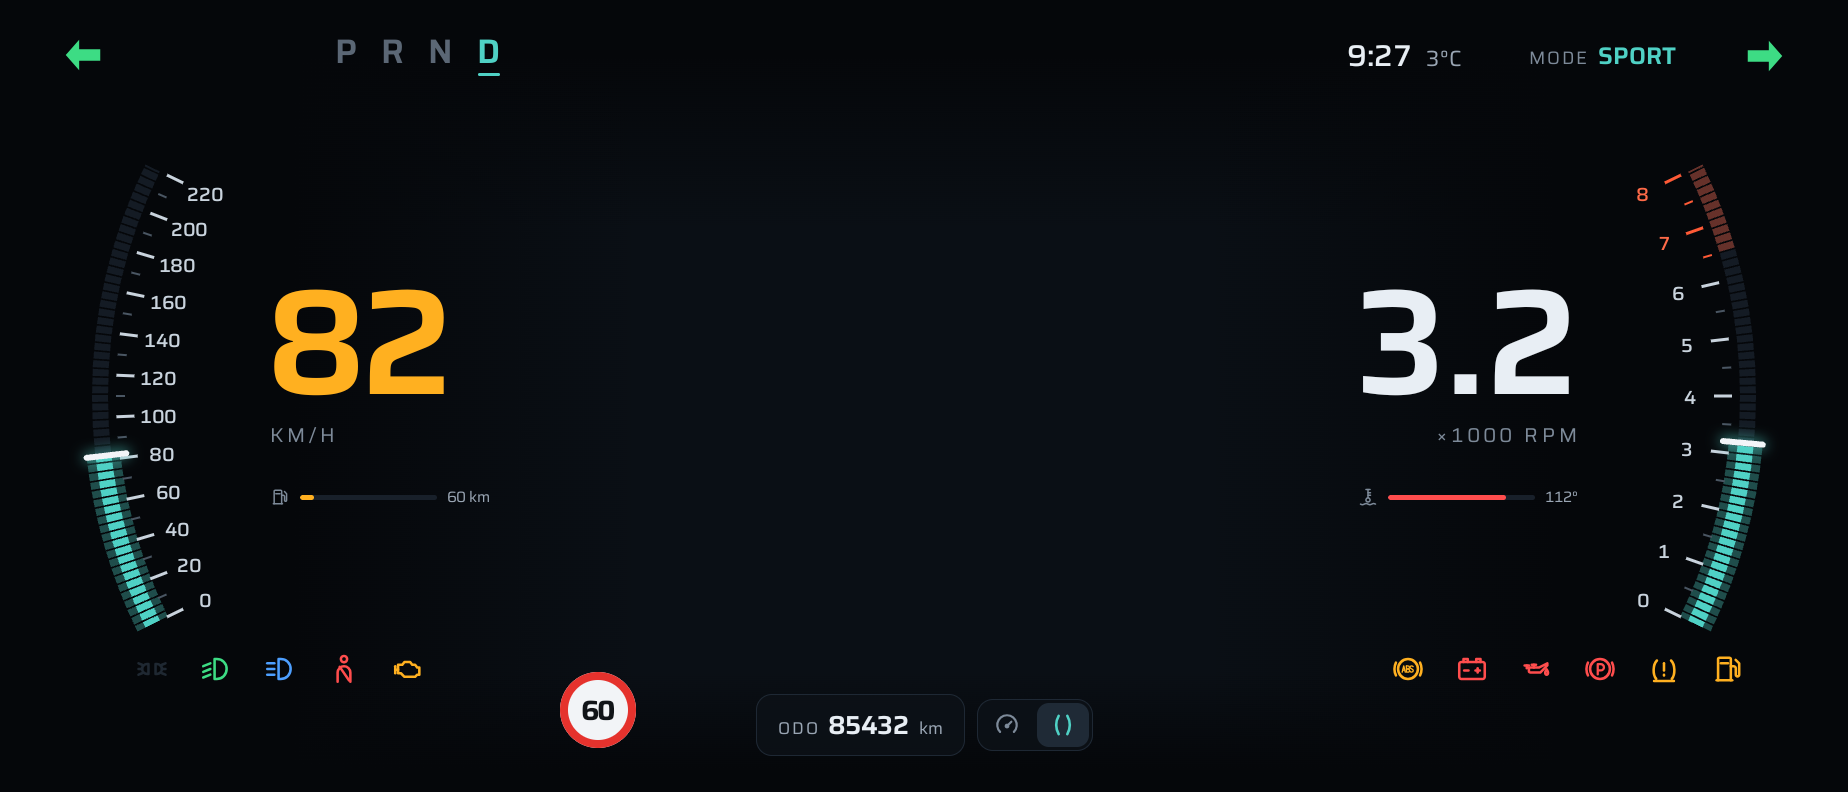
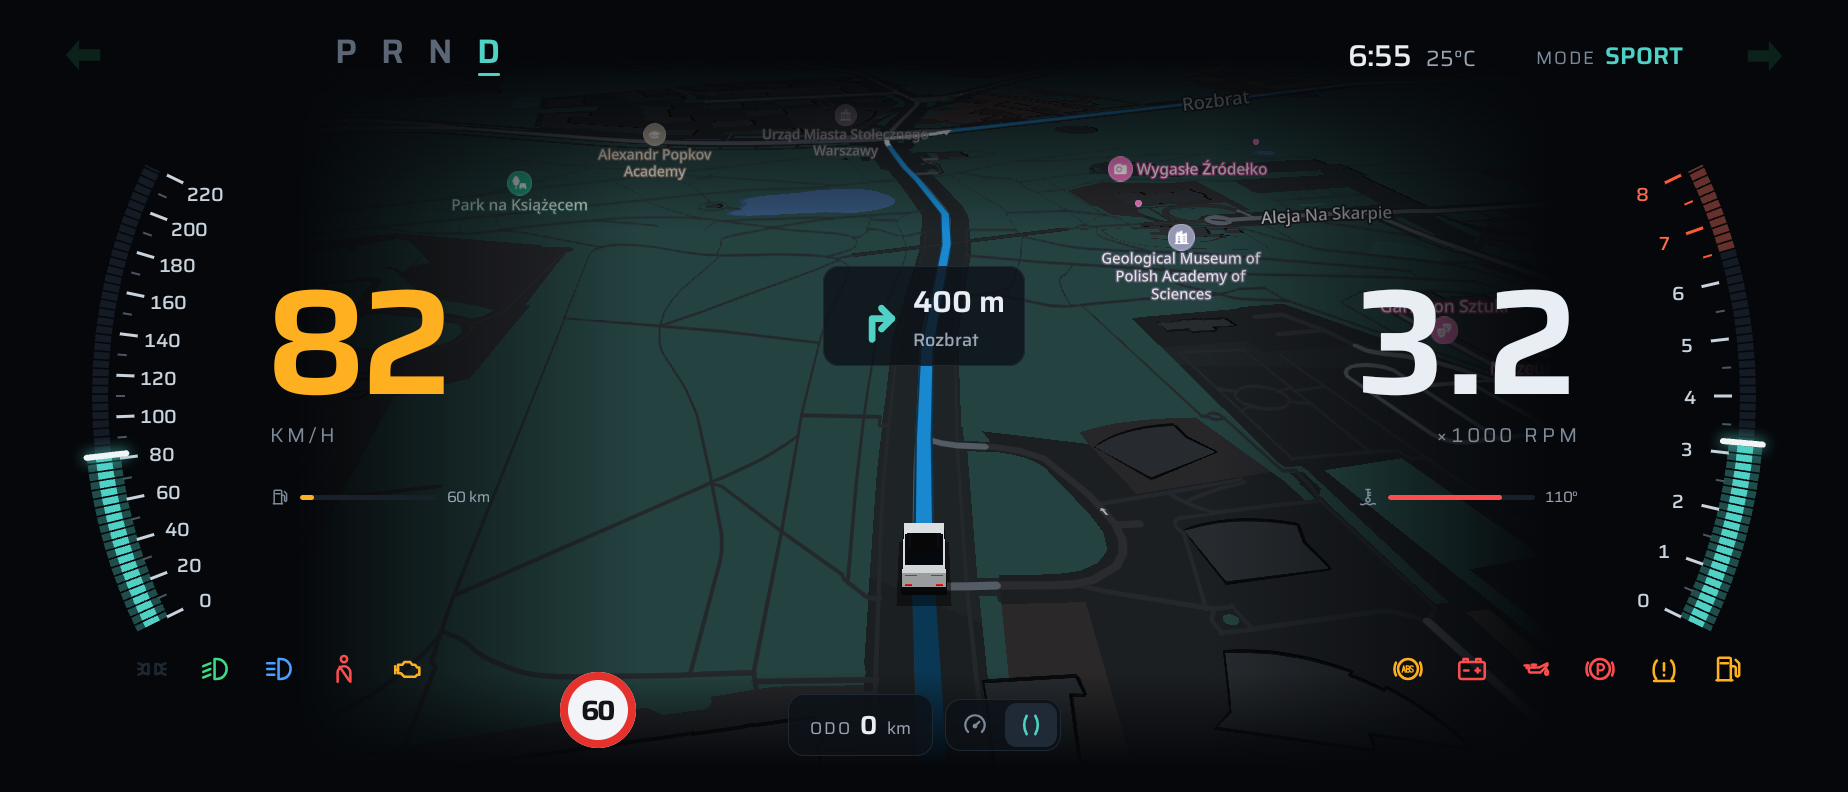
Update UI, add map

diff --git a/src/com/autobox/cluster/ui/map/ClusterMapConnection.kt b/src/com/autobox/cluster/ui/map/ClusterMapConnection.kt
@@ -1,0 +1,195 @@
+package com.autobox.cluster.ui.map
+
+import android.app.ActivityManager
+import android.content.BroadcastReceiver
+import android.content.ComponentName
+import android.content.Context
+import android.content.Intent
+import android.content.IntentFilter
+import android.content.ServiceConnection
+import android.graphics.Rect
+import android.os.Handler
+import android.os.IBinder
+import android.os.Looper
+import android.os.RemoteException
+import android.os.UserHandle
+import android.util.DisplayMetrics
+import android.util.Log
+import android.view.SurfaceHolder
+import androidx.compose.runtime.getValue
+import androidx.compose.runtime.mutableStateOf
+import androidx.compose.runtime.setValue
+import com.autobox.navigation.cluster.IClusterMap
+import com.autobox.navigation.cluster.IClusterMapListener
+
+private const val TAG = "ClusterMapConnection"
+private const val NAVIGATION_PACKAGE = "com.autobox.navigation"
+private const val ACTION_CLUSTER_MAP = "com.autobox.navigation.action.CLUSTER_MAP"
+private const val BIND_RETRY_MS = 2000L
+private const val ATTACH_RETRY_MS = 5000L
+
+/**
+ * Hands the map surface to Navigation, which draws the cluster map into it
+ * (com.autobox.navigation, IClusterMap).
+ *
+ * ClusterHomeService starts Cluster as the system user, while the driver's Navigation, with
+ * the route and the car position, runs as the current foreground user. The binding therefore
+ * goes to the current user and follows it on a user switch. Right after boot that user is
+ * still locked and Navigation (not direct boot aware) cannot be found, so binding is retried
+ * until it succeeds.
+ */
+internal class ClusterMapConnection(private val context: Context) : SurfaceHolder.Callback {
+
+    /**
+     * True once Navigation reports the map on the surface; until then [MapView] shows a
+     * placeholder. Stays false if Navigation fails to draw, so the cluster never shows a dead
+     * black surface.
+     */
+    var isMapShown by mutableStateOf(false)
+        private set
+
+    /** Density the map is drawn at, so 1 dp on the map is one design unit of the cluster. */
+    var densityDpi = DisplayMetrics.DENSITY_DEFAULT
+
+    /** Surface pixels at each edge covered by the gauges and bars. */
+    var insets = Rect()
+
+    private var connection: ServiceConnection? = null
+    private var service: IClusterMap? = null
+    private var holder: SurfaceHolder? = null
+    private var width = 0
+    private var height = 0
+
+    // The listener of the attach in flight. Reports for an older surface compare unequal and
+    // are dropped.
+    private var attachListener: IClusterMapListener? = null
+
+    private val handler = Handler(Looper.getMainLooper())
+    private val retryBind = Runnable { bind() }
+
+    private val userSwitchReceiver = object : BroadcastReceiver() {
+        override fun onReceive(context: Context, intent: Intent) {
+            Log.i(TAG, "User switched, binding to the new user's Navigation")
+            rebind()
+        }
+    }
+
+    fun start() {
+        context.registerReceiver(
+            userSwitchReceiver,
+            IntentFilter(Intent.ACTION_USER_SWITCHED),
+            Context.RECEIVER_NOT_EXPORTED,
+        )
+        bind()
+    }
+
+    fun stop() {
+        context.unregisterReceiver(userSwitchReceiver)
+        unbind()
+    }
+
+    override fun surfaceCreated(holder: SurfaceHolder) {
+        this.holder = holder
+    }
+
+    override fun surfaceChanged(holder: SurfaceHolder, format: Int, width: Int, height: Int) {
+        this.holder = holder
+        this.width = width
+        this.height = height
+        attach()
+    }
+
+    override fun surfaceDestroyed(holder: SurfaceHolder) {
+        detach()
+        this.holder = null
+        width = 0
+        height = 0
+    }
+
+    private fun bind() {
+        val newConnection = object : ServiceConnection {
+            override fun onServiceConnected(name: ComponentName, binder: IBinder) {
+                service = IClusterMap.Stub.asInterface(binder)
+                attach()
+            }
+
+            // Navigation died; BIND_AUTO_CREATE restarts it and connects again.
+            override fun onServiceDisconnected(name: ComponentName) {
+                service = null
+                attachListener = null
+                isMapShown = false
+            }
+
+            // Navigation was updated or removed: this binding will never come back.
+            override fun onBindingDied(name: ComponentName) {
+                rebind()
+            }
+        }
+        val intent = Intent(ACTION_CLUSTER_MAP).setPackage(NAVIGATION_PACKAGE)
+        val user = UserHandle.of(ActivityManager.getCurrentUser())
+        if (context.bindServiceAsUser(
+                intent,
+                newConnection,
+                Context.BIND_AUTO_CREATE or Context.BIND_IMPORTANT,
+                user,
+            )
+        ) {
+            connection = newConnection
+        } else {
+            // A failed bind must still be released; older releases throw instead
+            runCatching { context.unbindService(newConnection) }
+            Log.i(TAG, "Navigation not available for $user yet, retrying")
+            handler.postDelayed(retryBind, BIND_RETRY_MS)
+        }
+    }
+
+    private fun unbind() {
+        handler.removeCallbacks(retryBind)
+        detach()
+        connection?.let { context.unbindService(it) }
+        connection = null
+        service = null
+    }
+
+    private fun rebind() {
+        unbind()
+        bind()
+    }
+
+    private fun attach() {
+        val map = service ?: return
+        val surface = holder?.surface ?: return
+        if (width == 0 || height == 0) return
+        val listener = newAttachListener()
+        attachListener = listener
+        isMapShown = false
+        try {
+            map.attachSurface(surface, width, height, densityDpi, insets, listener)
+        } catch (e: RemoteException) {
+            attachListener = null
+            Log.w(TAG, "Failed to attach the map surface", e)
+        }
+    }
+
+    private fun detach() {
+        if (attachListener == null) return
+        attachListener = null
+        isMapShown = false
+        try {
+            service?.detachSurface()
+        } catch (e: RemoteException) {
+            Log.w(TAG, "Failed to detach the map surface", e)
+        }
+    }
+
+    private fun newAttachListener(): IClusterMapListener = object : IClusterMapListener.Stub() {
+        override fun onMapShown() {
+            handler.post { if (attachListener === this) isMapShown = true }
+        }
+
+        override fun onMapFailed(reason: String) {
+            Log.w(TAG, "Navigation could not show the cluster map, retrying: $reason")
+            handler.postDelayed({ if (attachListener === this) attach() }, ATTACH_RETRY_MS)
+        }
+    }
+}

diff --git a/src/com/autobox/cluster/ui/map/MapView.kt b/src/com/autobox/cluster/ui/map/MapView.kt
@@ -1,27 +1,70 @@
 package com.autobox.cluster.ui.map
 
+import android.graphics.Rect
+import android.util.DisplayMetrics
+import android.view.SurfaceView
 import androidx.compose.foundation.background
 import androidx.compose.foundation.layout.Box
 import androidx.compose.foundation.layout.BoxScope
 import androidx.compose.foundation.layout.fillMaxHeight
+import androidx.compose.foundation.layout.fillMaxSize
 import androidx.compose.foundation.layout.fillMaxWidth
 import androidx.compose.foundation.layout.height
 import androidx.compose.foundation.layout.width
 import androidx.compose.runtime.Composable
+import androidx.compose.runtime.DisposableEffect
+import androidx.compose.runtime.SideEffect
+import androidx.compose.runtime.remember
 import androidx.compose.ui.Alignment
 import androidx.compose.ui.Modifier
 import androidx.compose.ui.graphics.Brush
+import androidx.compose.ui.platform.LocalContext
+import androidx.compose.ui.platform.LocalDensity
 import androidx.compose.ui.res.colorResource
+import androidx.compose.ui.viewinterop.AndroidView
 import com.autobox.cluster.R
 import com.autobox.cluster.ui.theme.ClusterDimens
+import kotlin.math.roundToInt
 
 /**
- * Full-bleed navigation map under the gauges. Empty for now: the map itself
- * is integrated in the next iteration.
+ * Full-bleed navigation map under the gauges, drawn by the Navigation app into this
+ * SurfaceView (see [ClusterMapConnection]). The plain map colour stands in until
+ * Navigation is drawing.
  */
 @Composable
 internal fun MapView(modifier: Modifier = Modifier) {
-    Box(modifier.background(colorResource(R.color.cluster_map)))
+    val context = LocalContext.current
+    val connection = remember { ClusterMapConnection(context) }
+    DisposableEffect(connection) {
+        connection.start()
+        onDispose { connection.stop() }
+    }
+
+    // ScaledCanvas makes 1.dp one design unit, so this density draws the map's own UI in
+    // design units too, and the insets come out in surface pixels.
+    val density = LocalDensity.current
+    SideEffect {
+        val m = ClusterDimens.Map
+        with(density) {
+            connection.densityDpi = (DisplayMetrics.DENSITY_DEFAULT * density.density).roundToInt()
+            connection.insets = Rect(
+                m.InsetSide.roundToPx(),
+                m.InsetTop.roundToPx(),
+                m.InsetSide.roundToPx(),
+                m.InsetBottom.roundToPx(),
+            )
+        }
+    }
+
+    Box(modifier) {
+        AndroidView(
+            factory = { SurfaceView(it).apply { holder.addCallback(connection) } },
+            modifier = Modifier.fillMaxSize(),
+        )
+        if (!connection.isMapShown) {
+            Box(Modifier.fillMaxSize().background(colorResource(R.color.cluster_map)))
+        }
+    }
 }
 
 /** Fades the map into the ground under the top bar, the gauges and the bottom bar. */

diff --git a/src/com/autobox/cluster/ui/theme/ClusterDimens.kt b/src/com/autobox/cluster/ui/theme/ClusterDimens.kt
@@ -19,6 +19,16 @@ internal object ClusterDimens {
     val Width = 1848.dp
     val Height = 792.dp
 
+    /**
+     * The part of the map left free by the gauges and the bars, as insets from the
+     * canvas edges. Navigation keeps the car and its maneuver card inside it.
+     */
+    object Map {
+        val InsetSide = 600.dp
+        val InsetTop = 250.dp
+        val InsetBottom = 190.dp
+    }
+
     /** Gradients that fade the map into the ground under the gauges. */
     object Fade {
         val TopHeight = 230.dp

diff --git a/README.md b/README.md
@@ -16,9 +16,11 @@ full-bleed map area and two switchable gauge layouts.
 |:-:|:-:|
 | ![Arc scales, parked](design/cluster_arc_off.png) | ![Arc scales, all indicators on](design/cluster_arc_on.png) |
 
+"Parked": the map follows the parked car, no route.
 "All indicators on": D at 82 km/h over a 60 km/h limit, SPORT, hazard lights,
 every warning telltale, low and high beam (parking lights exclude the low beam
-in `HEADLIGHTS_STATE`, so they stay off).
+in `HEADLIGHTS_STATE`, so they stay off), and guidance on the map: the route,
+the instruction arrows and the next maneuver card.
 
 ---
 
@@ -70,7 +72,15 @@ subscription delivers the current value first, then the changes.
     redline from 6.5) right
   - **Arc scales**: segmented arcs on the screen edges with large speed and RPM readouts
 - Top bar: turn signals, P R N D strip, clock, outside temperature, drive mode
-- Map area under the gauges. Empty for now: the map is integrated next.
+- Map area under the gauges: a TomTom map drawn by the Navigation app
+  (`vendor/autobox/apps/Navigation`). `MapView` hands the surface of its
+  SurfaceView to Navigation's `ClusterMapService` (`IClusterMap`, signature
+  permission `com.autobox.navigation.permission.CLUSTER_MAP`) together with the
+  insets the gauges cover (`ClusterDimens.Map`). Cluster runs as the system user
+  and binds Navigation of the current user, rebinding on a user switch. Until
+  Navigation draws, the area shows the plain map colour. The AIDL comes from
+  the Navigation checkout (filegroup `autobox-navigation-cluster-aidl`), so
+  Cluster needs it to build.
 - Speed turns amber above the speed limit
 - Fuel bar with remaining range, amber on low fuel
 - Coolant bar in °C, red at the engine warning temperature
@@ -287,7 +297,7 @@ Cluster/
 │       ├── gauges/                 GaugeScale, RoundGauges, ArcScales layouts
 │       ├── chrome/                 top bar, speed limit, telltales: shared by both styles
 │       ├── components/             ClusterText, telltales, level bars, clock, speed limit, layout helpers
-│       ├── map/                    map area and legibility fades
+│       ├── map/                    map surface, Navigation connection, legibility fades
 │       └── bottombar/              odometer and gauge style switcher
 ├── design/                         screenshots: round and arc, parked and all indicators on
 ├── res/
